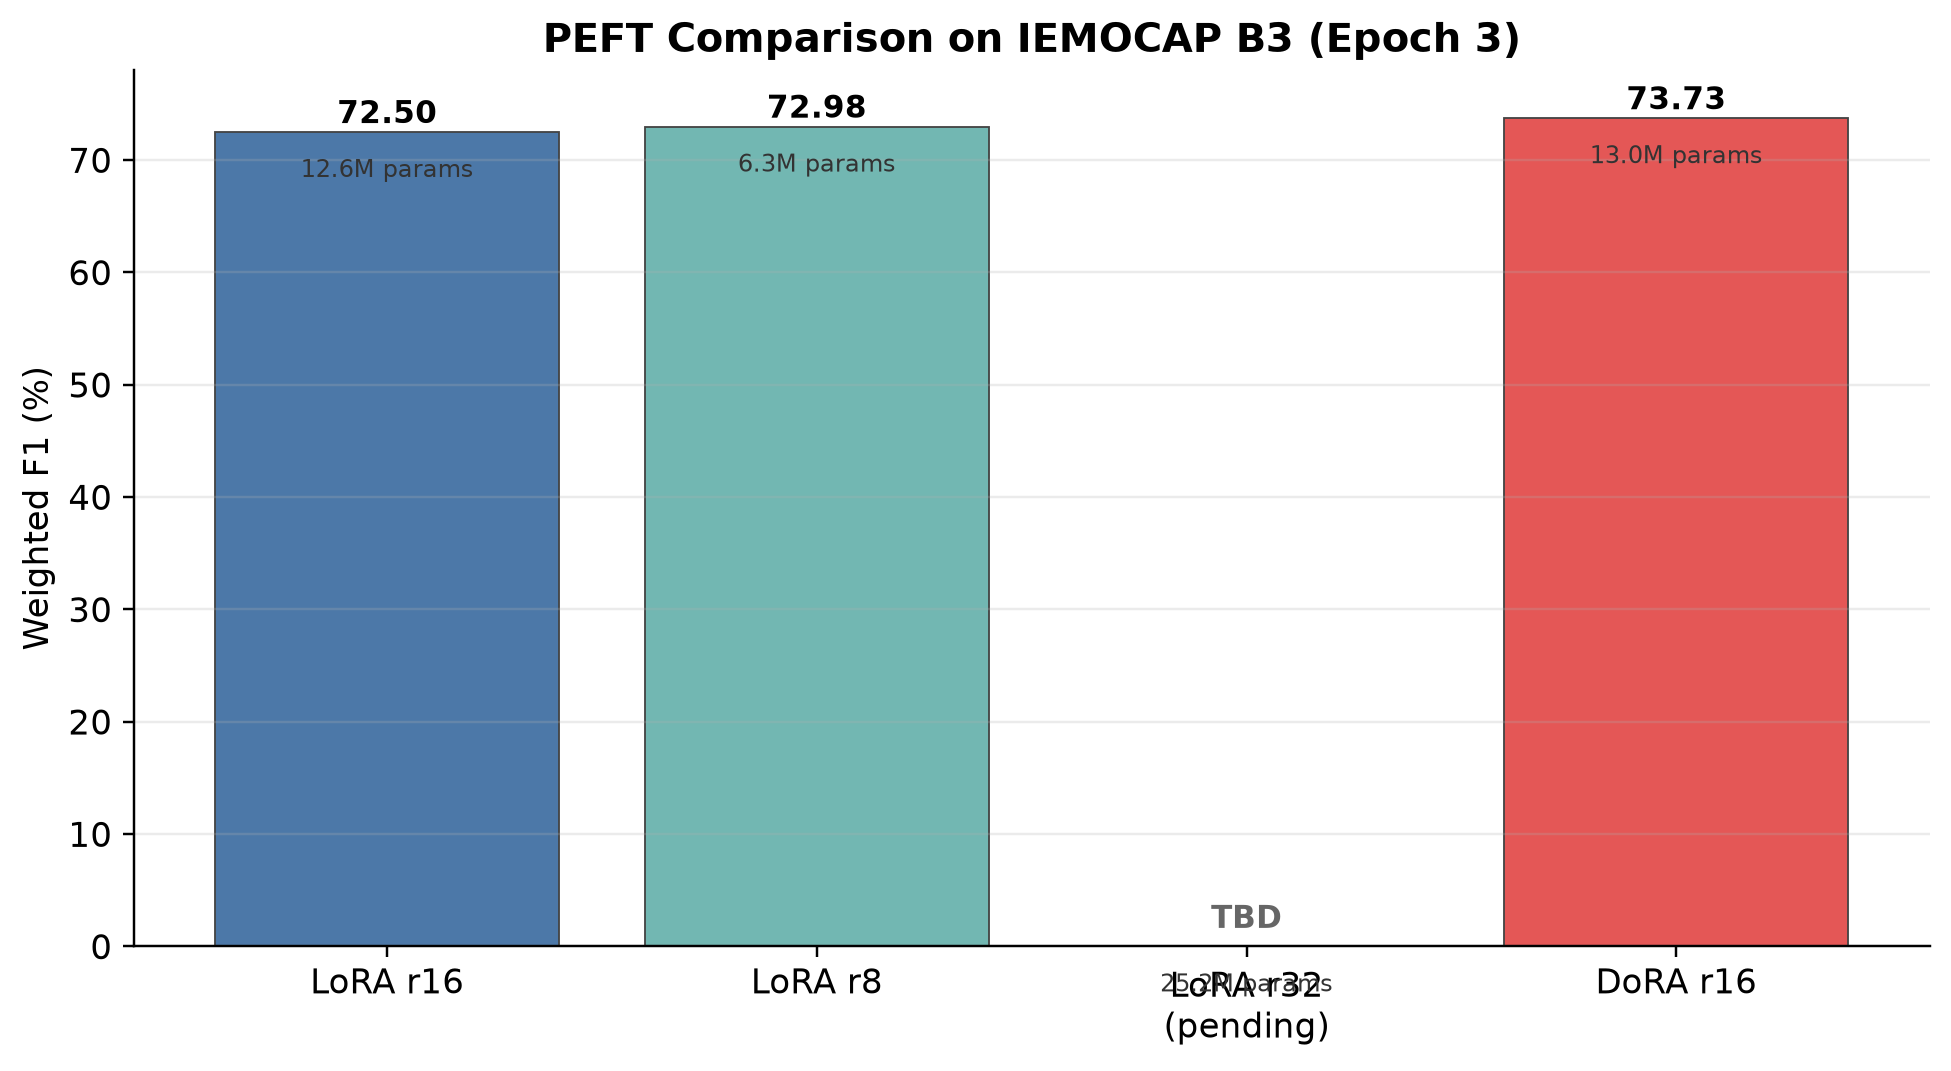
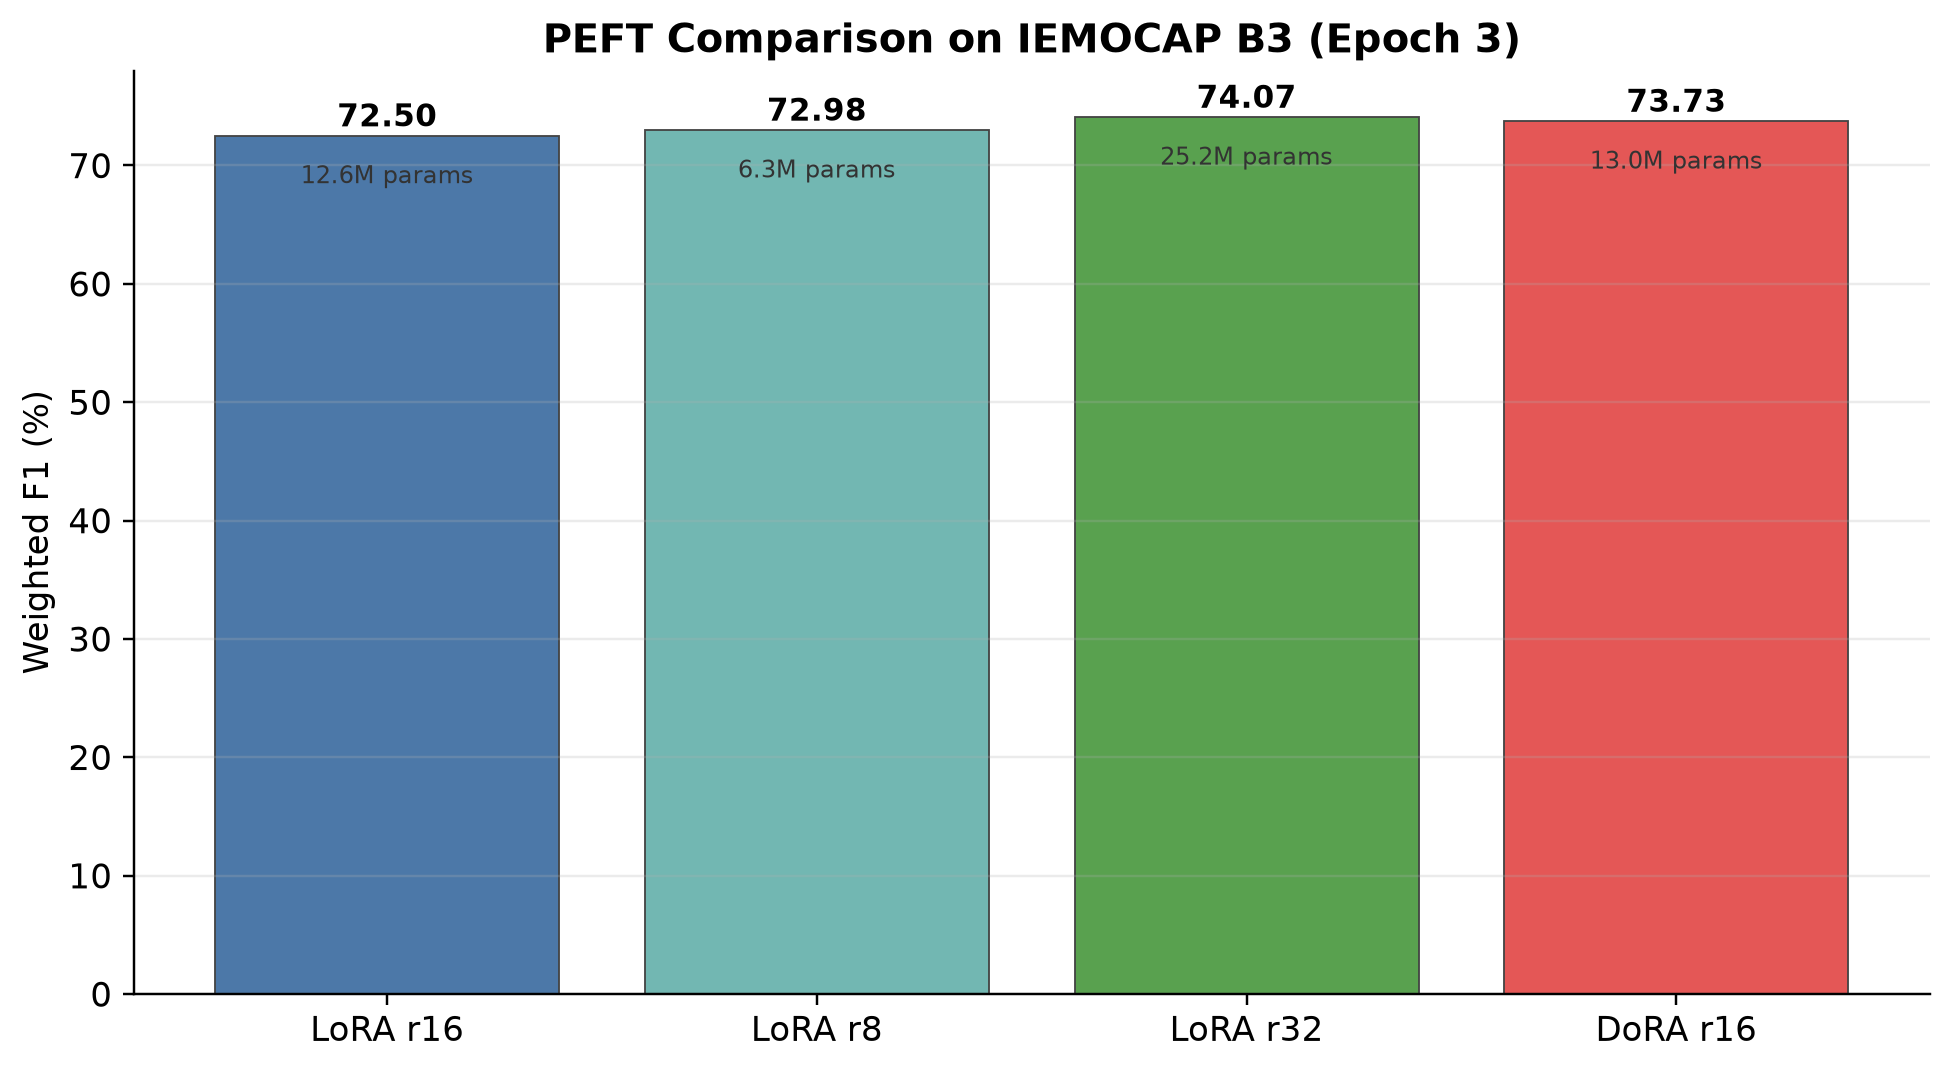
Push changes

diff --git a/scripts/plot_results.py b/scripts/plot_results.py
@@ -1,7 +1,6 @@
 """Generate README figures from the completed values reported in the final PDF.
 
-Only final-report-confirmed values are encoded here. The r32 PEFT result is
-shown as pending and is not assigned a numerical F1 value.
+Only final-report-confirmed values are encoded here.
 """
 
 from pathlib import Path
@@ -122,10 +121,10 @@ def plot_ablation():
 
 # Final-report Table VII completed PEFT results.
 def plot_peft():
-    methods = ["LoRA r16", "LoRA r8", "LoRA r32\n(pending)", "DoRA r16"]
-    values = [72.50, 72.98, np.nan, 73.73]
+    methods = ["LoRA r16", "LoRA r8", "LoRA r32", "DoRA r16"]
+    values = [72.50, 72.98, 74.07, 73.73]
     params = [12.6, 6.3, 25.2, 13.0]
-    colors = ["#4C78A8", "#72B7B2", "#CCCCCC", "#E45756"]
+    colors = ["#4C78A8", "#72B7B2", "#59A14F", "#E45756"]
 
     fig, ax1 = plt.subplots(figsize=(9, 5))
     bars = ax1.bar(methods, np.nan_to_num(values, nan=0), color=colors,

diff --git a/README.md b/README.md
@@ -50,14 +50,14 @@ Key findings:
 |---|---:|---:|---:|---:|---:|
 | LoRA r16, P1 | 12.6M | 64.67 | 70.30 | 72.50 | 16,234 s |
 | LoRA r8 | 6.3M | 63.35 | 70.75 | 72.98 | 16,529 s |
-| LoRA r32 | 25.2M | TBD | TBD | TBD | TBD |
+| LoRA r32 | 25.2M | TBD | TBD | 74.07 | TBD |
 | DoRA r16 | 13.0M | 65.03 | 71.33 | 73.73 | 20,436 s |
 
 <p align="center">
   <img src="docs/figures/peft_comparison.png" alt="PEFT comparison at epoch 3" width="720">
 </p>
 
-DoRA produced the best completed IEMOCAP result at epoch 3. The r32 result was not completed in the reported final study and remains pending.
+LoRA r32 achieved the best completed IEMOCAP epoch-3 result at 74.07 weighted F1, versus 73.73 for DoRA r16.
 
 ## Repository Structure
 
@@ -146,7 +146,7 @@ Base Python dependencies are listed in `requirements.txt`. Specific notebook env
 
 - Results are single-seed estimates.
 - Main 7B runs use 4-bit QLoRA with LLaMA-2-7B on two T4 GPUs.
-- LoRA r32 and LoRA r4 robustness coverage remain incomplete.
+- LoRA r4 robustness coverage remains incomplete.
 - SNR statement and hedge-word effects were not separated by an ablation.
 - Level-matched denoising with recomputed thresholds was not included in the completed downstream ablation.
 - GPU-memory differences did not separate the completed PEFT methods.

diff --git a/results/exports/README.md b/results/exports/README.md
@@ -6,4 +6,4 @@ These CSV files encode completed values verified against the final report:
 - `component_ablation.csv`: component-level weighted-F1 differences.
 - `peft_results.csv`: completed and pending PEFT runs.
 
-Values should be updated only when a notebook run and the final report agree. r32 is intentionally left pending.
+Values should be updated only when a notebook run and the final report agree.

diff --git a/notebooks/05_peft/README.md b/notebooks/05_peft/README.md
@@ -4,7 +4,7 @@
 
 - P1: LoRA r16
 - P2: LoRA r8
-- P3: LoRA r32, pending/TBD
+- P3: LoRA r32, 74.07 weighted F1 at epoch 3
 - P4: DoRA r16
 
 `iemocap_p4_dora_r16_b3.ipynb` is retained as the recorded completed DoRA run. The IEMOCAP B3 main table values come from P1 LoRA r16, not P4 DoRA.
